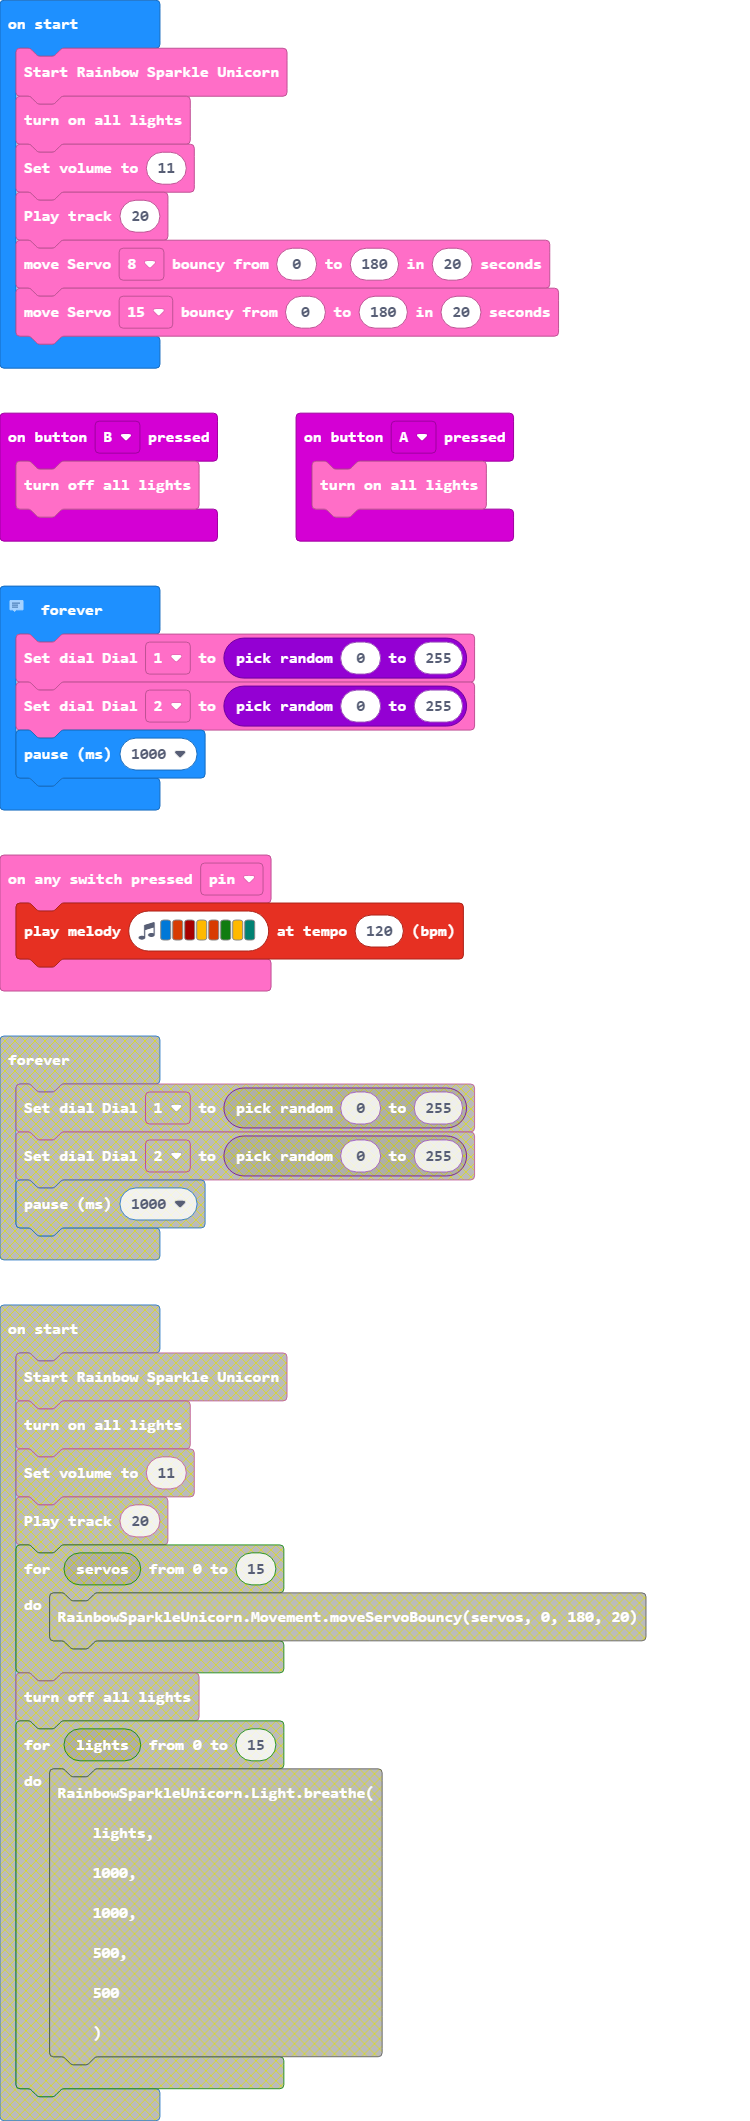
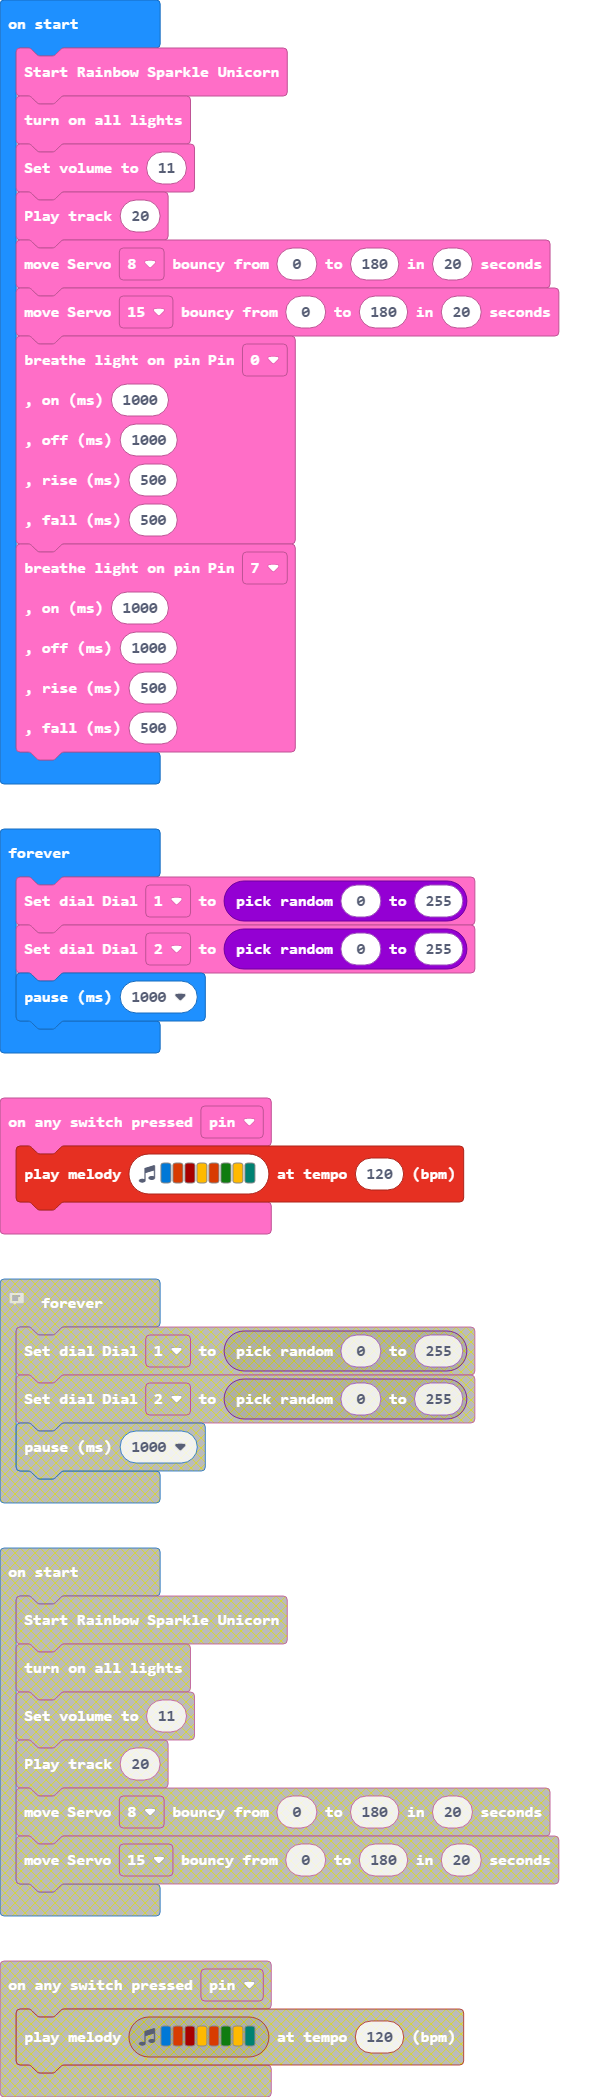
Update pxt.json, main.blocks, main.ts

diff --git a/main.ts b/main.ts
@@ -16,13 +16,20 @@ RainbowSparkleUnicorn.Sound.setVolume(11)
 RainbowSparkleUnicorn.Sound.playTrack(20)
 RainbowSparkleUnicorn.Movement.moveServoBouncy(RainbowSparkleUnicorn.Movement.Pins.P8, 0, 180, 20)
 RainbowSparkleUnicorn.Movement.moveServoBouncy(RainbowSparkleUnicorn.Movement.Pins.P15, 0, 180, 20)
-// RainbowSparkleUnicorn.Light.breathe(
-// RainbowSparkleUnicorn.Light.Pins.P11,
-// 1000,
-// 1000,
-// 500,
-// 500
-// )
+RainbowSparkleUnicorn.Light.breathe(
+RainbowSparkleUnicorn.Light.Pins.P0,
+1000,
+1000,
+500,
+500
+)
+RainbowSparkleUnicorn.Light.breathe(
+RainbowSparkleUnicorn.Light.Pins.P7,
+1000,
+1000,
+500,
+500
+)
 basic.forever(function () {
     RainbowSparkleUnicorn.Dial.value(RainbowSparkleUnicorn.Dial.Dials.Dial1, randint(0, 255))
     RainbowSparkleUnicorn.Dial.value(RainbowSparkleUnicorn.Dial.Dials.Dial2, randint(0, 255))
